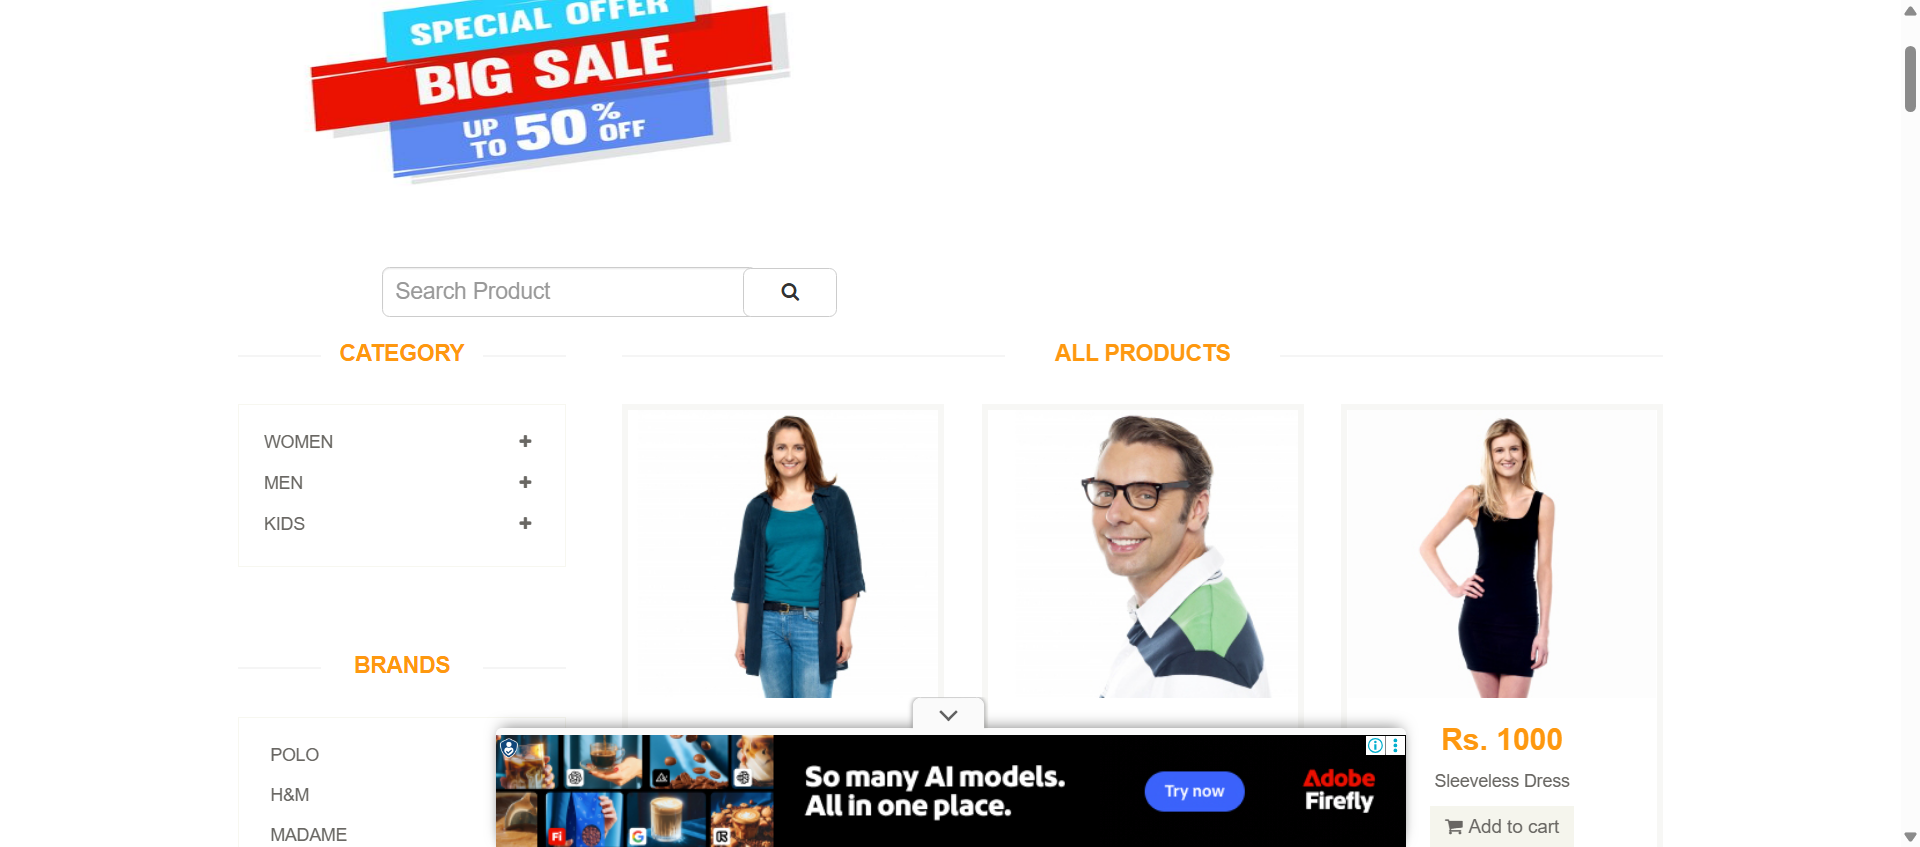
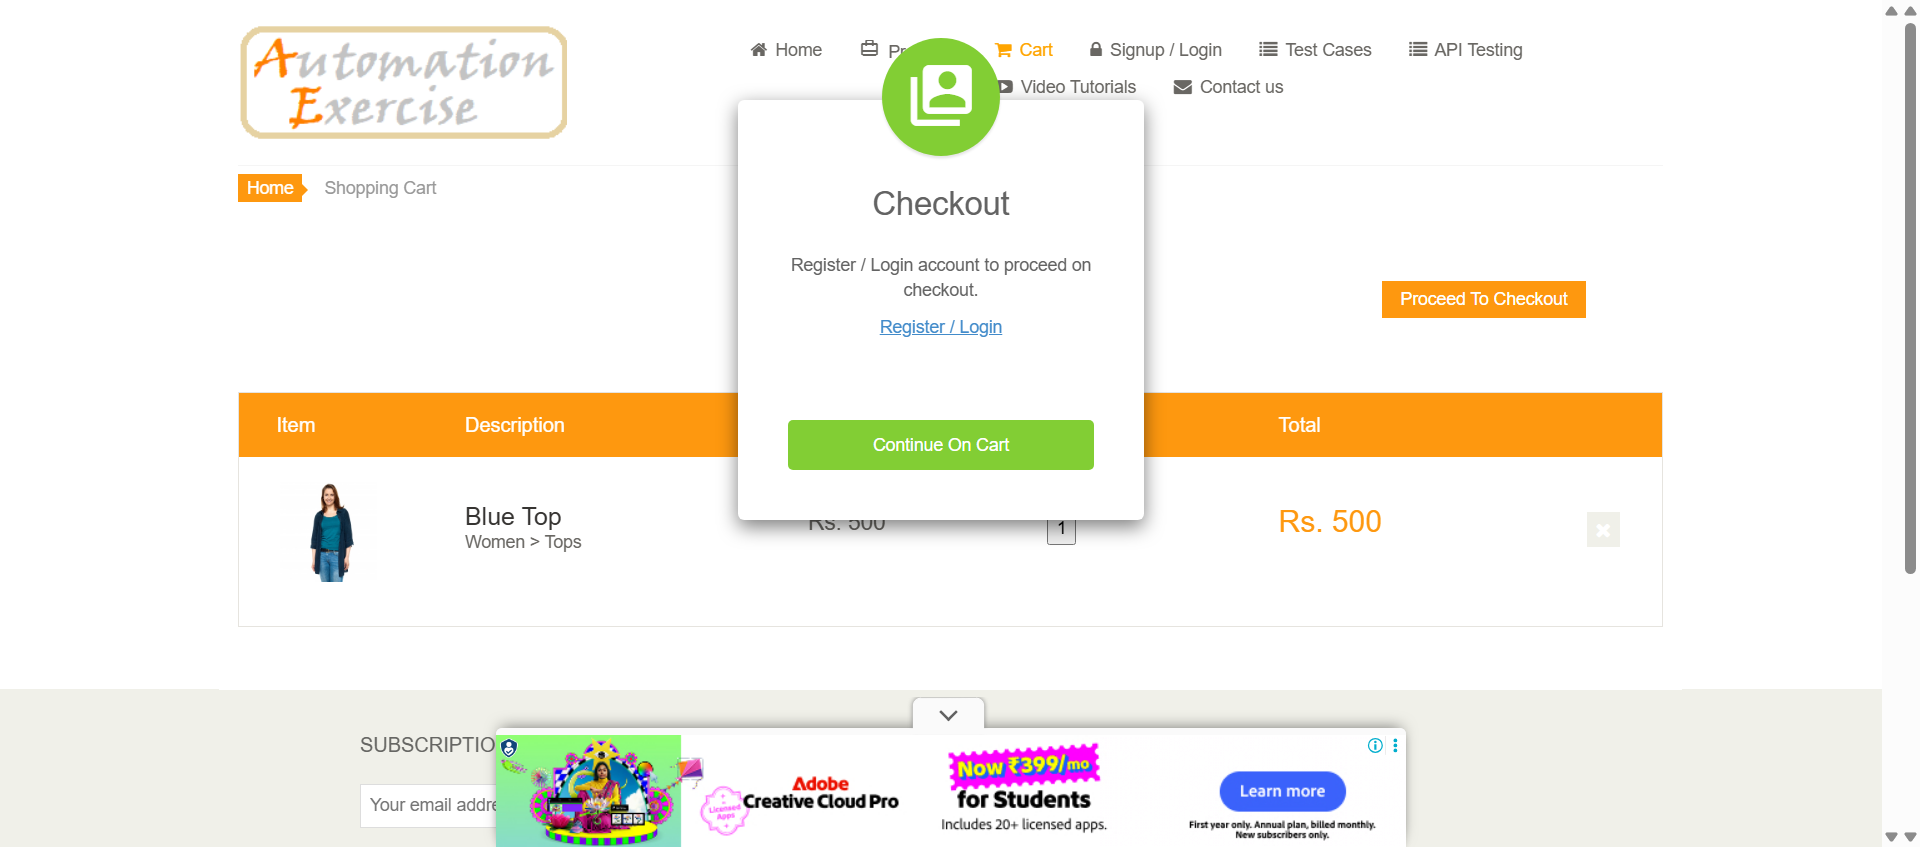
Updated checkout payment flow

diff --git a/src/main/java/pages/CheckoutPage.java b/src/main/java/pages/CheckoutPage.java
@@ -14,6 +14,24 @@ public class CheckoutPage {
         this.driver = driver;
     }
 
+    By nameOnCard =
+            By.name("name_on_card");
+
+    By cardNumber =
+            By.name("card_number");
+
+    By cvc =
+            By.name("cvc");
+
+    By expiryMonth =
+            By.name("expiry_month");
+
+    By expiryYear =
+            By.name("expiry_year");
+
+    By payButton =
+            By.id("submit");
+
     public void placeOrder() {
 
         WebElement placeOrderBtn =
@@ -29,5 +47,39 @@ public class CheckoutPage {
         js.executeScript(
                 "arguments[0].click();",
                 placeOrderBtn);
+    }
+
+    public void enterPaymentDetails() {
+
+        driver.findElement(nameOnCard)
+                .sendKeys("Chethan");
+
+        driver.findElement(cardNumber)
+                .sendKeys("1234567890123456");
+
+        driver.findElement(cvc)
+                .sendKeys("123");
+
+        driver.findElement(expiryMonth)
+                .sendKeys("12");
+
+        driver.findElement(expiryYear)
+                .sendKeys("2028");
+    }
+
+    public void clickPayAndConfirmOrder() {
+
+        WebElement payBtn =
+                driver.findElement(payButton);
+
+        JavascriptExecutor js =
+                (JavascriptExecutor) driver;
+
+        js.executeScript(
+                "window.scrollBy(0,500)");
+
+        js.executeScript(
+                "arguments[0].click();",
+                payBtn);
     }
 }

diff --git a/src/test/java/stepdefinitions/CheckoutSteps.java b/src/test/java/stepdefinitions/CheckoutSteps.java
@@ -12,10 +12,12 @@ import base.BaseClass;
 import io.cucumber.java.en.Then;
 import io.cucumber.java.en.When;
 import pages.CartPage;
+import pages.CheckoutPage;
 
 public class CheckoutSteps extends BaseClass {
 
     CartPage cart;
+    CheckoutPage checkout;
 
     @When("user clicks proceed to checkout")
     public void user_clicks_proceed_to_checkout() {
@@ -81,23 +83,32 @@ public class CheckoutSteps extends BaseClass {
 
         commentBox.sendKeys("Order placed successfully");
 
-        driver.findElement(
-                By.xpath("//a[contains(text(),'Place Order')]"))
-                .click();
+        checkout = new CheckoutPage(driver);
+
+        checkout.placeOrder();
     }
 
     @Then("order should place successfully")
     public void order_should_place_successfully() {
 
-        WebDriverWait wait =
-                new WebDriverWait(driver,
-                        Duration.ofSeconds(10));
-
-        wait.until(
-                ExpectedConditions.urlContains("payment"));
+        String text = driver.getPageSource();
 
         Assert.assertTrue(
-                driver.getCurrentUrl()
-                        .contains("payment"));
+                text.contains("Order Placed!"));
+    }
+    @When("user enters payment details")
+    public void user_enters_payment_details() {
+
+        checkout = new CheckoutPage(driver);
+
+        checkout.enterPaymentDetails();
+    }
+
+    @When("user clicks pay and confirm order")
+    public void user_clicks_pay_and_confirm_order() {
+
+        checkout = new CheckoutPage(driver);
+
+        checkout.clickPayAndConfirmOrder();
     }
 }

diff --git a/src/main/java/pages/HomePage.java b/src/main/java/pages/HomePage.java
@@ -41,8 +41,7 @@ public class HomePage {
 
     public void clickProducts() {
 
-        JavascriptExecutor js =
-                (JavascriptExecutor) driver;
+        JavascriptExecutor js = (JavascriptExecutor) driver;
 
         js.executeScript(
                 "arguments[0].click();",

diff --git a/src/test/java/runners/TestRunner.java b/src/test/java/runners/TestRunner.java
@@ -19,7 +19,8 @@ plugin = {
 "json:target/cucumber.json"
 },
 
-monochrome = true
+monochrome = true,
+tags="@checkout"
 
 
 

diff --git a/src/main/java/base/DriverFactory.java b/src/main/java/base/DriverFactory.java
@@ -17,7 +17,7 @@ public class DriverFactory {
             ChromeOptions options = new ChromeOptions();
 
             
-            options.addArguments("--headless=new");
+//            options.addArguments("--headless=new");
 
             options.addArguments("--disable-gpu");
             options.addArguments("--window-size=1920,1080");